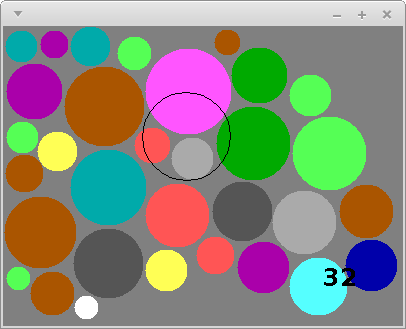
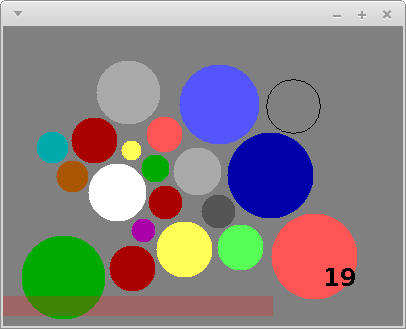
update assignment 3 to have disk placement timeout
also, updated skeleton for assignment 2 to have a
timer and timer event handler

diff --git a/assign/assign03.md b/assign/assign03.md
@@ -3,7 +3,7 @@ layout: default
 title: "Assignment 3: Disks Game"
 ---
 
-**Due**: Monday, Sept 26th by 11:59 PM
+**Due**: Wednesday, Sept 28th by 11:59 PM
 
 Acknowledgment: The idea for this assignment comes from [Tom Ellman](http://pages.vassar.edu/tomellman/) at Vassar College.
 
@@ -50,9 +50,15 @@ The goal is to place disks of random sizes and colors onto the game board so tha
 1.  no disk overlaps any other disk, and
 2.  every disk lies entirely within the rectangular game board
 
-The solid disks are the ones that have been successfully placed. The black disk outline follows the mouse and shows where the next disk could be placed. The number in the lower right-hand corner shows the number of disks that have been successfully placed.
+The solid disks are the ones that have been successfully placed. The black disk outline follows the mouse and shows where the next disk could be placed. The number in the lower right-hand corner shows the number of disks that have been successfully placed.  The pink bar at the bottom of the window is a bar showing how much time remains to place the current disk.
 
-The game ends when a disk is placed in a position where it overlaps another disk, or is not entirely placed within the game board:
+The game ends when a disk
+
+* is placed in a position where it overlaps another disk,
+* is not entirely placed within the game board, or
+* is not placed before the countdown timer expires
+
+When the game ends, a game over message should be displayed:
 
 > ![image](img/assign03/gameover.png)
 
@@ -70,6 +76,15 @@ Specifications and Hints
 You will make all of your code changes to the **DisksPanel** class, which implements the game play.
 
 You should add whatever fields are necessary to represent the state of the game. You will probably want to use an array of **Disk** elements to represent the disks that have been placed.
+
+### Constructor
+
+The constructor should initialize all of the fields of **DisksPanel**.  This could include:
+
+* create a new random **Disk** object and store a reference to it in a field
+* create an array of **Disk** references and store a reference to it in a field
+* start the count of how many disks have been placed at 0
+* initialize the initial timeout duration and the amonut of time remaining to place the current disk (these could be **int** fields)
 
 ### Mouse events
 
@@ -127,7 +142,19 @@ disks = new Disk[500];
 diskCount = 0;
 {% endhighlight %}
 
-When a disk is placed successfully, a reference to the new **Disk** object should be added to the array.  The **diskCount** field can be used to keep track of how many disks have been placed.
+When a disk is placed successfully, a reference to the new **Disk** object should be added to the array.  The **diskCount** field can be used to keep track of how many disks have been placed.  Note that the **diskCount** field also indicates where in the array the next disk should be placed.
+
+### Timer events
+
+The skeleton code for the **DisksPanel** class creates an instance of the **javax.swing.Timer** class and stores it in a field called **timer**.  It also sets up an evvent handler which calls the **handleTimerEvent** method when the timer fires.  The timer is configured to fire after a delay of 0.1 seconds.  So, you can think of one timer "tick" as being one tenth of a second.
+
+You should use an **int** field to keep track of how many ticks the player has left to place the current disk.  Each time a timer event occurs, you should decrement this field.  If the value of the field reaches 0, then the game is over because the timeout expired.
+
+When the game starts (i.e., in the **DisksPanel** constructor), you should call **timer.start()** to start the timer running.  By default, timer events will be generated repeatedly, so you don't need to restart the timer when a timer event occurs.
+
+When a disk is placed successfully, you can call **timer.stop()** followed by **timer.start()** to make sure that the user receives the full amount of time to place the next disk.  Also, you should reset the field that keeps track of how many ticks the user has remaining to place the next disk.
+
+For extra credit, you can make the game more challenging by decreasing the number of ticks available each time the user places a disk successfully.
 
 ### The paint method
 
@@ -151,6 +178,14 @@ g.fillOval((int) x, (int) y, (int) w, (int) h);
 
 Also note that the x/y coordinates of a disk represent its center, but the x/y coordinates in a call to **fillOval** are the upper left corner of a rectangle surrounding the oval being drawn.  You will need to adjust the coordinates accordingly when drawing a disk.
 
+You should draw the bar indicating how much time the user has left to place the next disk using a partially transparent color.  Colors can have an "alpha channel", which is a value between 0 and 255, where 255 is completely opaque and 0 is completely transparent.  In our solution, we used
+
+{% highlight java %}
+Color barColor = new Color(255, 23, 23, 63);
+{% endhighlight %}
+
+as the bar color.
+
 Running the program
 -------------------
 
@@ -161,12 +196,18 @@ Grading
 
 The grading will be done as follows:
 
--   Displaying the outline of the next disk to be placed - 15%
--   Allowing disks to be placed, drawing them - 30%
--   Detecting overlap and out-of-bounds - 20%
+-   Displaying the outline of the next disk to be placed - 10%
+-   Allowing disks to be placed, drawing them - 20%
+-   Detecting overlap and out-of-bounds - 15%
+-   Keeping track of time remaining to place disk - 10%
+-   Displaying bar to indicate remaining time - 10%
 -   Keeping score, displaying score - 15%
 -   Detecting end of game, displaying "Game over" - 20%
--   Growing the disks array as needed, rather than preallocating a large array - 5%
+
+Extra credit options:
+
+-   Growing the disks array as needed, rather than preallocating a large array - up to 5%
+-   Decreasing the timeout each time a disk is placed successfully - up to 10%
 
 Also note that points may be deducted for poor coding style.
 

diff --git a/assign/index.md b/assign/index.md
@@ -11,9 +11,9 @@ Assignments are due by 11:59 PM on the due date.
 > ---------- | ---- | ---
 > [Assignment 1: Tic Tac Toe](assign01.html) | [CS201\_Assign01.zip](CS201_Assign01.zip) | Monday, Sept 12th
 > [Assignment 2: Disk class](assign02.html) | [CS201\_Assign02.zip](CS201_Assign02.zip) | Monday, Sept 19th
+> [Assignment 3: Disks Game](assign03.html) | n/a | Wednesday, Sept 28th
 
 <!--
-> [Assignment 3: Disks Game](assign03.html) | n/a | Monday, Sept 26th
 > [Assignment 4: Klondike](assign04.html) | [CS201\_Assign04.zip](CS201_Assign04.zip) | MS 1: Tuesday, June 21st<br>MS 2: Tuesday, July 12th
 > [Assignment 5: Mandelbrot Set Renderer](assign05.html) | [CS201\_Assign05.zip](CS201_Assign05.zip) | Friday, July 22nd
 > [Assignment 6: Web Crawler](assign06.html) | [CS201\_Assign06.zip](CS201_Assign06.zip) | Monday, August 8th

diff --git a/index.md b/index.md
@@ -26,5 +26,6 @@ Welcome to the website for CS 201, Fundamentals of Computer Science II, at York 
 
 ## News
 
+* **Sep 8** &mdash; [Assignment 3](assign/assign03.html) has been posted.  It is due Wednesday, Sept 28th by 11:59 PM.
 * **Sep 2** &mdash; [Assignment 2](assign/assign02.html) has been posted. It is due Monday, Sept 19th by 11:59 PM.
 * **Aug 31** &mdash; Welcome back!  [Assignment 1](assign/assign01.html) is due Monday, Sept 12th by 11:59 PM.
